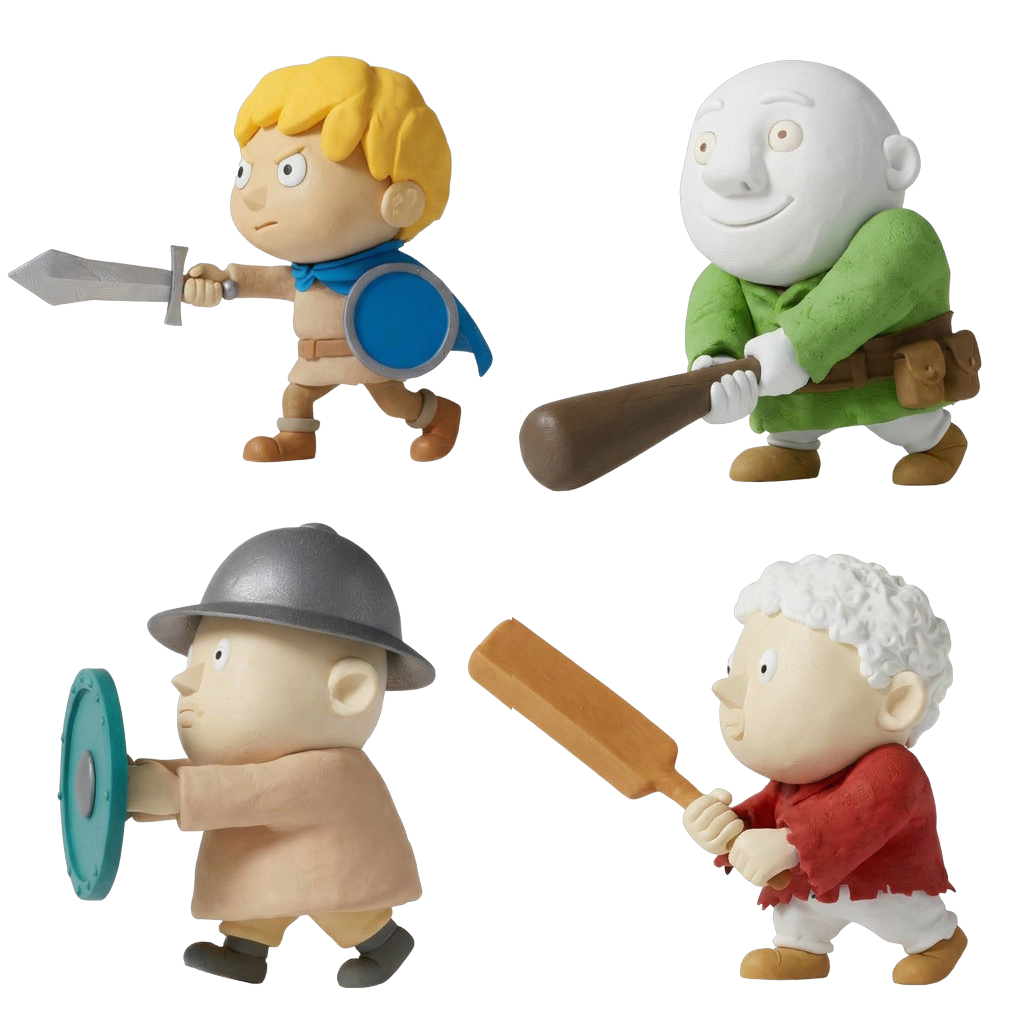
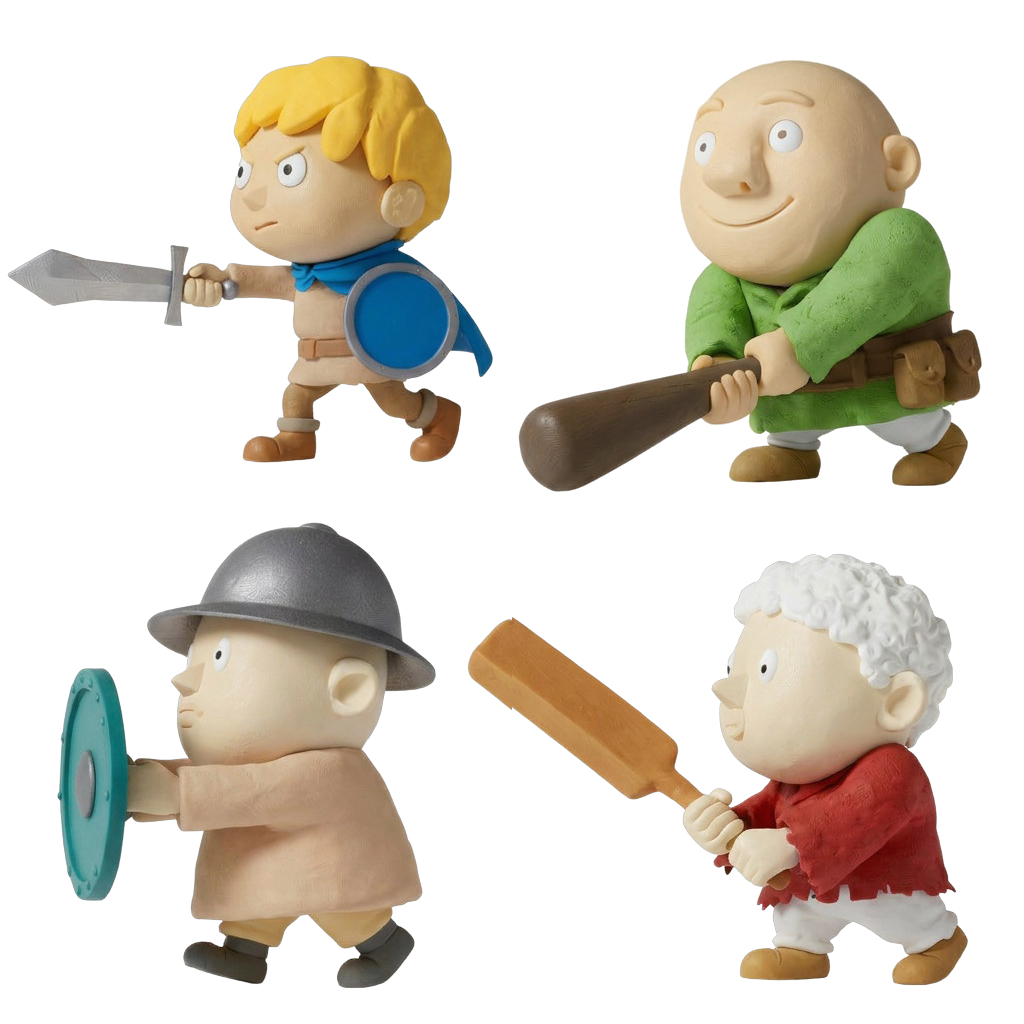
art: le combattant à massue a la même peau que les autres
Sa tête et ses mains étaient restées blanches. Seule sa case change, sur la
planche de repos et sur la planche d'attaque ; même pose, mêmes habits.
Retouche Magnific (166 crédits), teinte rapprochée des trois autres combattants.

Claude-Session: https://claude.ai/code/session_0153huJungw2KXDp7mHDZLQs

Changed region(s): [[0.6562, 0.0625, 0.9062, 0.2812], [0.6562, 0.3125, 0.8125, 0.4375]]

diff --git a/public/assets/illustrated/PROVENANCE-RESTYLE-2026-11.md b/public/assets/illustrated/PROVENANCE-RESTYLE-2026-11.md
@@ -521,3 +521,26 @@ Determined, brave, friendly faces. No motion lines, no impact stars, no dust, no
 - Rien n'a été montré aux enfants ni au parent.
 - Le sens de l'attaque suit la direction du personnage au repos ; le rendu d'un sprite
   retourné par le jeu n'a pas été contrôlé.
+
+## Peau du combattant à massue (13 novembre 2026)
+
+Le parent a demandé le même personnage avec la peau des autres : sa tête et ses mains étaient
+restées blanches. Seule la case en haut à droite change, sur `allies-front.webp` et
+`allies-front-attack.webp` ; les trois autres cases sont celles d'avant, au pixel près.
+
+- Outil : Magnific `images_retouch`, mode `edit`, qualité moyenne, sur la planche de repos
+  lJosK3cgv9 et sur la planche d'attaque YMjYLzfWeC.
+- Créations : repos [bxTkcNh5Y2](https://www.magnific.com/app/creation/bxTkcNh5Y2), détourage
+  dtyoJW7XSL ; attaque [9ZQiEhjNYZ](https://www.magnific.com/app/creation/9ZQiEhjNYZ),
+  détourage cplVLZa0eP.
+- Crédits : 166.
+- Recalage : la case d'attaque est descendue de 10 px, comme la précédente.
+- Retouche locale : teinte et saturation de la peau rapprochées de celles des trois autres
+  combattants (teinte 0,100, saturation 0,295 sur les deux planches), pour que la couleur ne
+  saute pas entre le repos et l'attaque.
+
+Consigne (repos ; la même pour l'attaque, avec « swinging » et les ombres au sol) :
+
+```
+SKIN COLOUR CHANGE ONLY, on one figure. The top-right figure (bald man in a green tunic holding a dark wooden club) currently has a white head, white ears and white hands. Repaint only his head, ears and both hands in the same light natural beige modelling-clay skin as the three other figures in this image (same pale beige as the blond boy top-left and the helmeted soldier bottom-left). Keep his eyes white with the same beige irises, keep his smile, nose, facial features, pose, club, green tunic, belt, pouch, white trousers and brown shoes exactly as they are. Do not change the three other figures at all. Keep the plain white background, the same framing, the same positions and sizes, the same handmade clay texture with fingerprints.
+```
